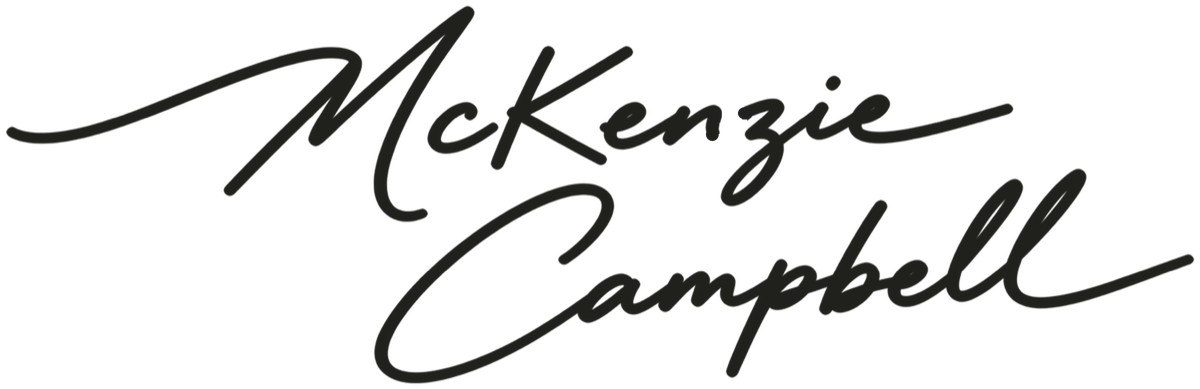
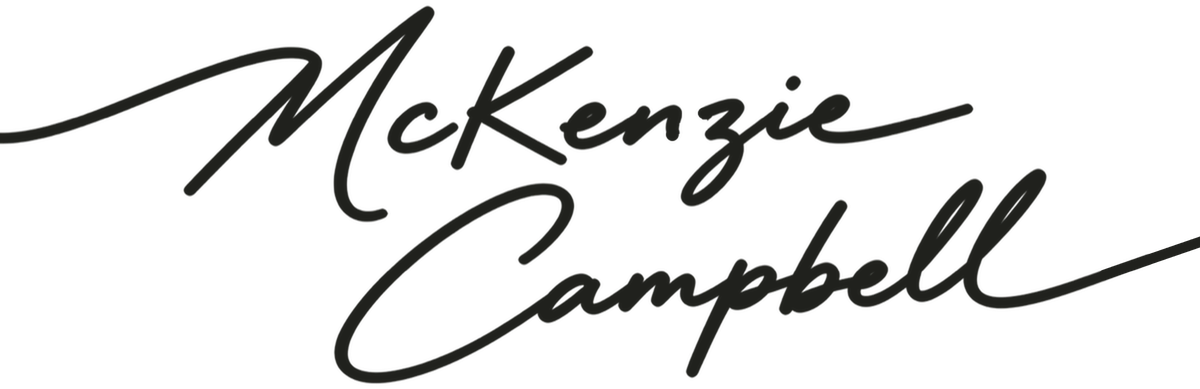
Signature: shift baked into the image and the Campbell tail extended to the edge

Changed region(s): [[0.0, 0.0, 1.0, 0.9871]]

diff --git a/index.html b/index.html
@@ -115,8 +115,6 @@
   @media (min-width: 1024px) {
     .name img { width: calc(100% + 2 * var(--sidebar-pad)); margin-left: calc(-1 * var(--sidebar-pad)); }
   }
-  /* Nudge the signature a little to the left (the lead-in stroke runs off the edge) */
-  .name img { position: relative; left: -12px; }
   /* Tagline under the signature: what McKenzie does, readable at a glance */
   .tagline { margin: -9px 0 0; text-align: right; font-size: 15px; line-height: 1.4; color: var(--ink); }
   .tagline strong { display: block; font-weight: 700; } /* title on its own line, phrase below */
